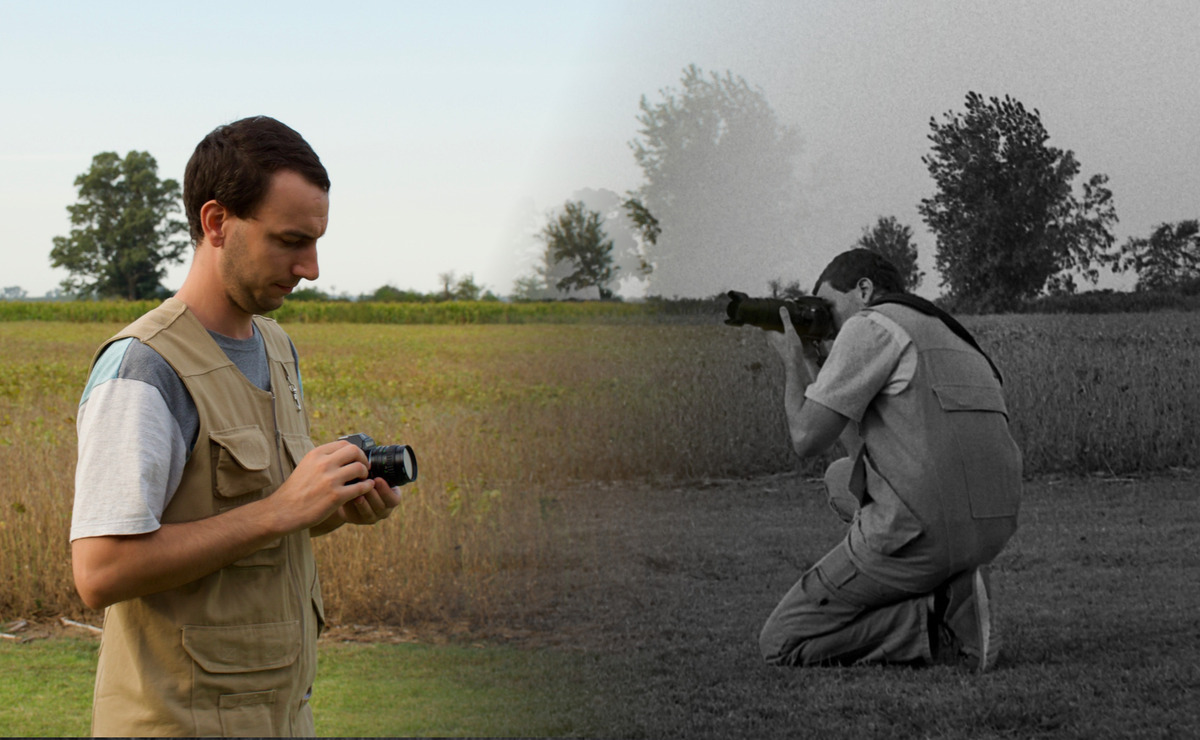
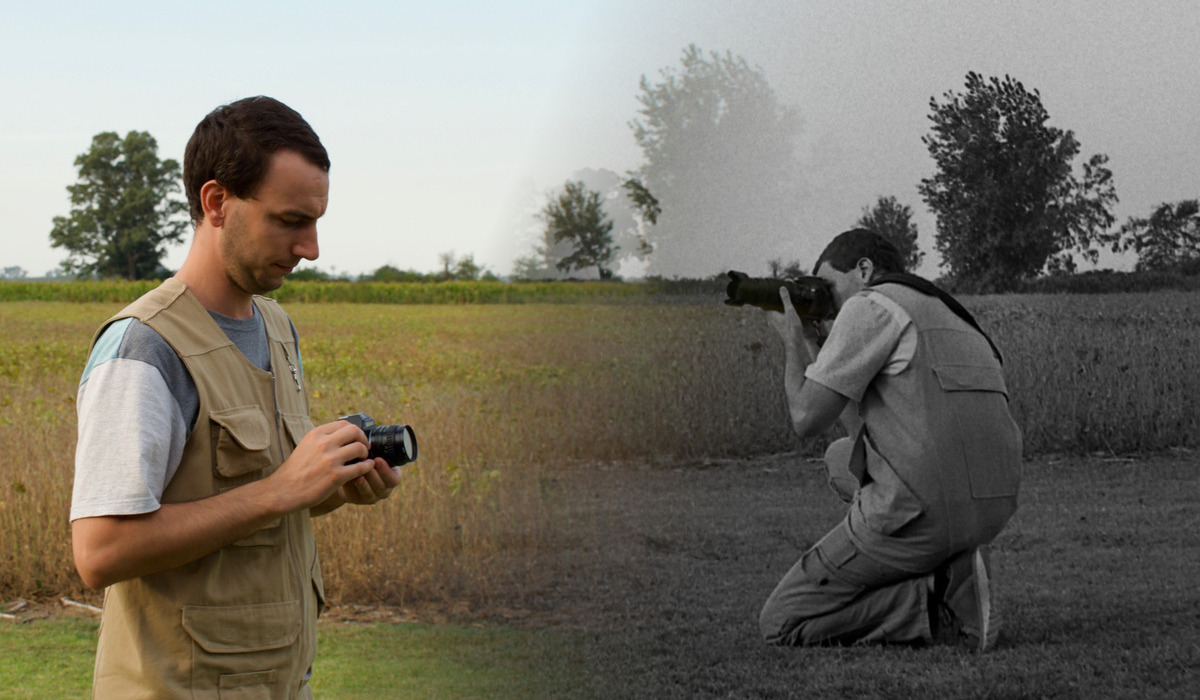
Creating rss feed...

diff --git a/eng/aboutme_eng.md b/eng/aboutme_eng.md
@@ -3,19 +3,41 @@ layout: default
 title:  About me
 ---
 
-Aquí actualizo periódicamente algunos gráficos y comentarios relacionados con el actual brote del nuevo
-coronavirus *SARS-CoV-2* en la Argentina. En general los actualizo al menos cada 2 días. A veces puedo
-tardar más (cambia el tiempo del que dispongo y el *Ministerio de Salud de la Nación* no siempre publica
-sus [informes diarios](https://www.argentina.gob.ar/coronavirus/informe-diario) con la misma rapidez.)
+![Mis costados](https://rvalla.github.io/assets/img/aboutme.jpg)
 
-## El brote en Argentina
+Me entreno permanentemente para ser creativo. Y como la creatividad no distingue campos disciplinares, lo
+hago haciendo de todo. Estudio música y matemática. Escribo hace muchos años. Amaso mi propio pan
+todas las semanas. Las computadoras son parte de mi entrenamiento. Programo para hacerme preguntas y también para producir
+herramientas que me ayuden con lo que hago. También las uso para editar mis fotos o para escribir.
 
-Acá voy actualizando un resumen de la situación argentina:
 
-![Resumen Argentina](https://github.com/rvalla/COVID-19/raw/master/Argentina_Data/actual_charts/1_Argentina.png)
+La paciencia que se requiere para encontrar el error que evita que un programa termine es la misma que 
+necesito para esperar a que la luz sea la adecuada para una foto o que el pan fermente. Y la capacidad
+de ver con una mirada original el problema que intento resolver es la misma que uso para
+imaginar la foto que busco, o me permite escribir una obra musical que es un juego al mismo tiempo,
+o concebir un personaje alocado para un cuento.  
 
-Acá hago una estimación...
 
-![Estimación](https://github.com/rvalla/COVID-19/raw/master/Argentina_Data/actual_charts/1_E_00_KnownRatioAndEstimation.png)
+Nací en Buenos Aires en 1986 y viví en Argentina desde entonces. En 1996 me sumé a la
+[Escuela Argentina de Inventores](https://escueladeinventores.blogspot.com/). Estudié dirección de orquesta
+en la [Universidad Nacional de las Artes](https://una.edu.ar/), también estudié un poco de matemática. Pero
+estoy aprendiendo cosas nuevas todos los días, así que mi paso por la escuela y la universidad no es de una
+idea precisa de quién soy.
+
+
+## Mis otros costados
+
+Este sitio reúne los resultados de las horas que paso escribiendo código. Quizás te interesen más otros
+campos. Por eso te invito a escapar de mi *costado algorítmico* e ir en busca de mis otros costados:
+
+- Si te interesa la fotografía podés ver mi trabajo [acá](https://rodrigovalla.com).
+- Si te interesa la música estocástica podés escuchar mis [juegos musicales](https://vimeo.com/showcase/4825357).
+- Si te gusta la literatura te invito a visitar [Percepciones de la ignorancia](https://pdelaignorancia.com).
+
+## Contactame
+
+Si tenés comentarios sobre alguno de los proyectos que comparto acá, tenés problemas para entenderlos o no
+lográs hacerlos funcionar podés contactarme por [mail](mailto:rodrigovalla@protonmail.ch) o buscarme en
+[telegram](https://t.me/rvalla) o [mastodon](https://fosstodon.org/@rvalla).
 
 volver a [rvalla.github.io](https://rvalla.github.io)

diff --git a/es/aboutme_es.md b/es/aboutme_es.md
@@ -19,8 +19,8 @@ o concebir un personaje alocado para un cuento.
 
 
 Nací en Buenos Aires en 1986 y viví en Argentina desde entonces. En 1996 me sumé a la
-[Escuela Argentina de Inventores](https://escueladeinventores.blogspot.com/), estudié dirección de orquesta
-en la [Universidad Nacional de las Artes](https://una.edu.ar/). También estudié un poco de matemática. Pero
+[Escuela Argentina de Inventores](https://escueladeinventores.blogspot.com/). Estudié dirección de orquesta
+en la [Universidad Nacional de las Artes](https://una.edu.ar/), también estudié un poco de matemática. Pero
 estoy aprendiendo cosas nuevas todos los días, así que mi paso por la escuela y la universidad no es de una
 idea precisa de quién soy.
 
